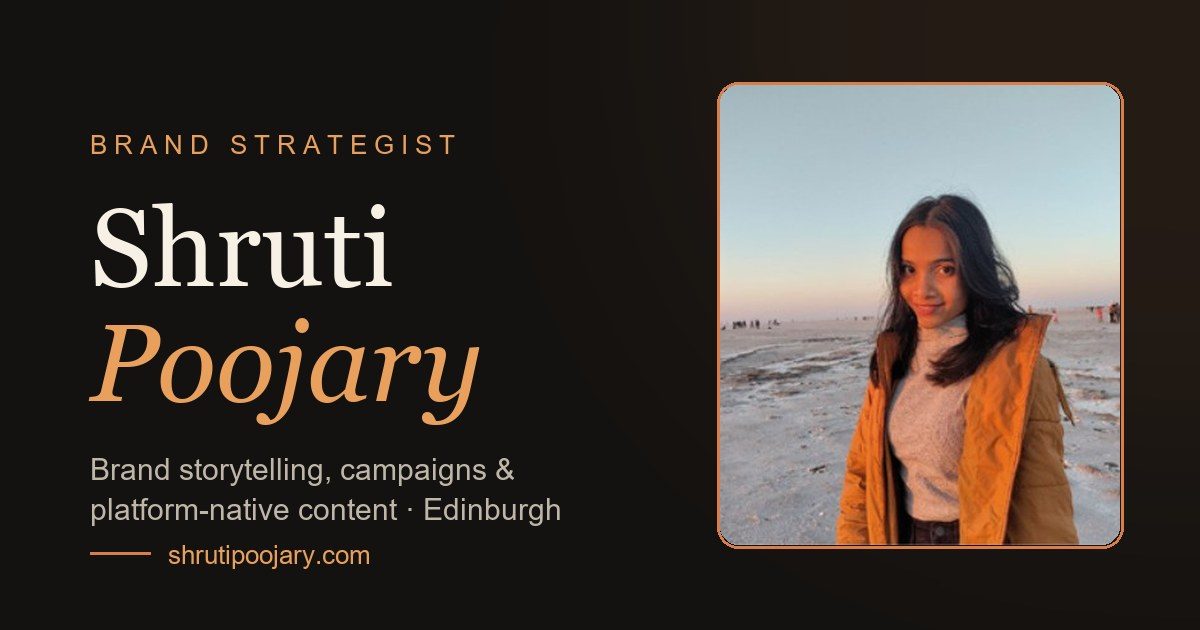
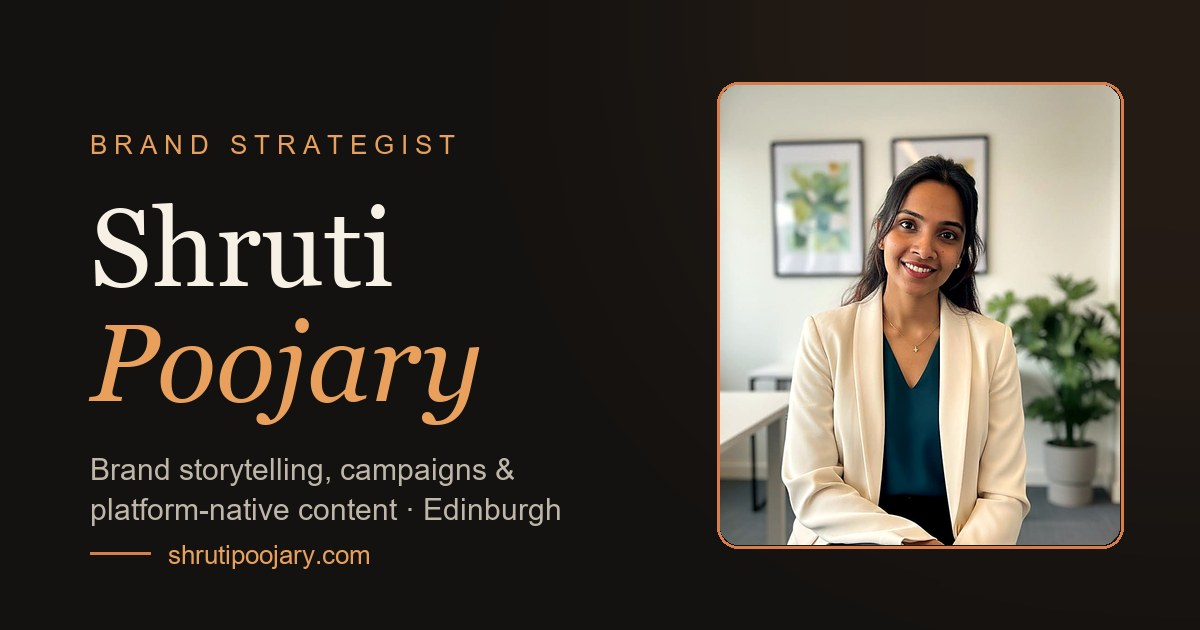
Use new professional headshot on About page and social share card

Changed region(s): [[0.5858, 0.1206, 0.9558, 0.8746]]

diff --git a/about.html b/about.html
@@ -45,7 +45,7 @@
     <section class="section" style="padding-top:clamp(7rem,12vw,10rem);">
       <div class="wrap about-hero">
         <div class="portrait reveal">
-          <img src="assets/img/shruti.jpg" alt="Portrait of Shruti Poojary" />
+          <img src="assets/img/shruti-office.jpg" alt="Portrait of Shruti Poojary" />
         </div>
         <div class="reveal d1">
           <span class="eyebrow">About</span>
